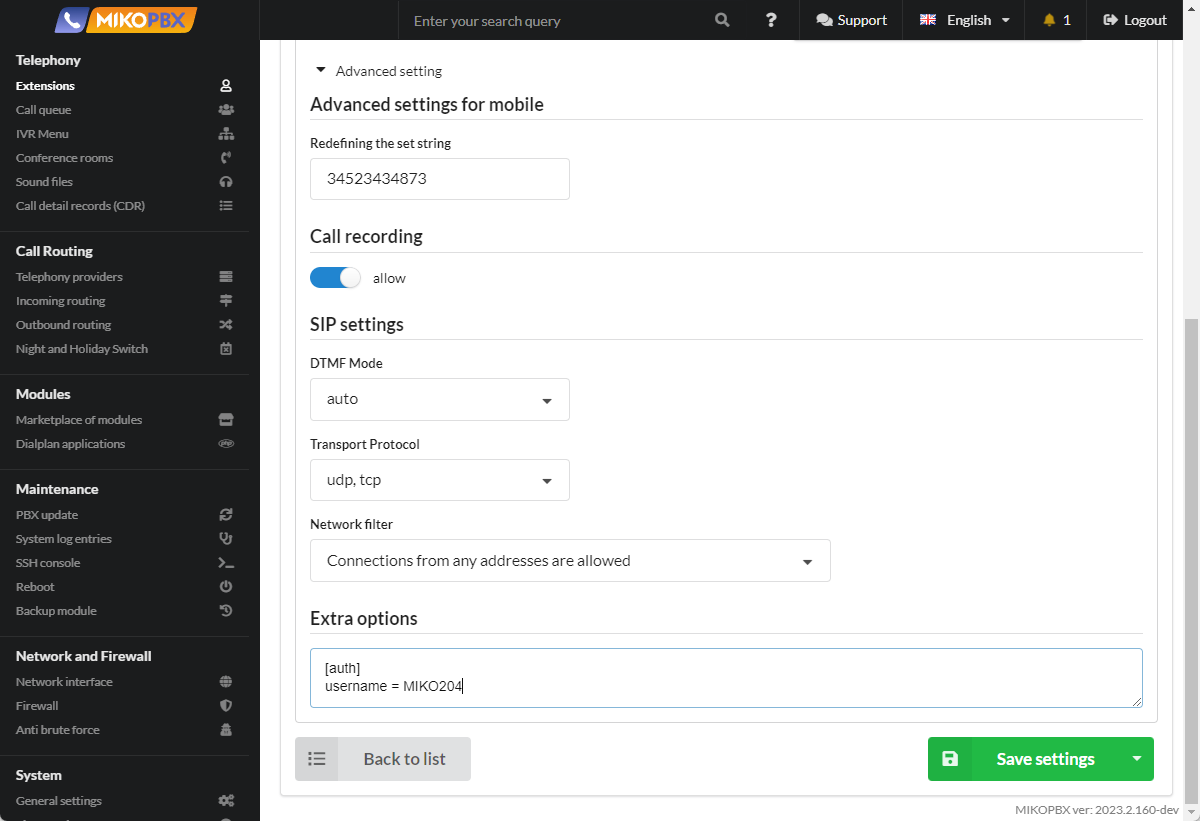
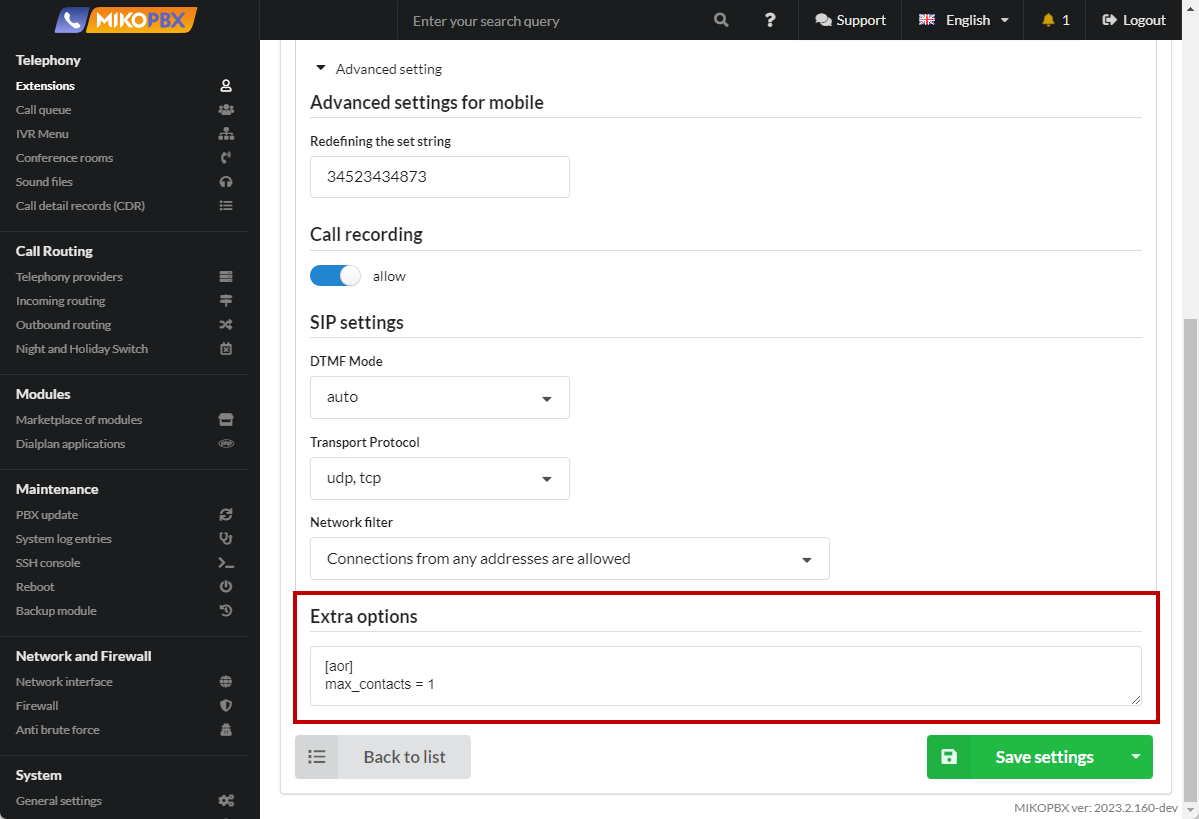
GITBOOK-160: change request with no subject merged in GitBook

diff --git a/faq/scenarios-and-cases/limit-the-number-of-authorizations-per-sip-account.md b/faq/scenarios-and-cases/limit-the-number-of-authorizations-per-sip-account.md
@@ -1,0 +1,18 @@
+# Limit the number of authorizations per SIP account
+
+1. Go to edit the employee account.
+
+<figure><img src="../../.gitbook/assets/extensionsSection.png" alt=""><figcaption><p>Editing an employee's account</p></figcaption></figure>
+
+2. In the "**Extra oprions**" field, add:
+
+```
+[aor]
+max_contacts = 1
+```
+
+<figure><img src="../../.gitbook/assets/extraOptions.png" alt=""><figcaption><p>Additional parameters in the employee account</p></figcaption></figure>
+
+{% hint style="success" %}
+The last registration will work. The softphone/phone that registered last and will receive calls. Outgoing calls can be made by each end device.
+{% endhint %}

diff --git a/SUMMARY.md b/SUMMARY.md
@@ -115,6 +115,7 @@
   * [Unique background music for the queue](faq/scenarios-and-cases/unique-background-music-for-the-queue.md)
   * [Pause for Queue agent](faq/scenarios-and-cases/pause-for-queue-agent.md)
   * [Setting up the "Paging" function](faq/scenarios-and-cases/cases.md)
+  * [Limit the number of authorizations per SIP account](faq/scenarios-and-cases/limit-the-number-of-authorizations-per-sip-account.md)
 
 ## Modules
 

diff --git a/faq/service/change-the-login-name.md b/faq/service/change-the-login-name.md
@@ -26,4 +26,4 @@ username = MIKO204
 
 Instead of **MIKO204**, specify a name for authorization, it is advisable to use both letters and numbers
 
-<figure><img src="../../.gitbook/assets/extraOptions.png" alt=""><figcaption><p>Additional parameters</p></figcaption></figure>
+<figure><img src="../../.gitbook/assets/extraOptions (1).png" alt=""><figcaption><p>Additional parameters</p></figcaption></figure>
